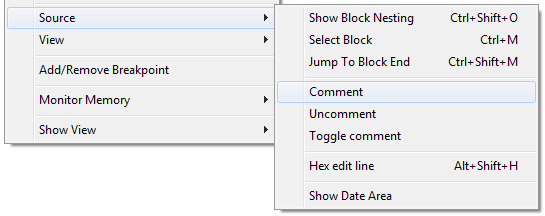
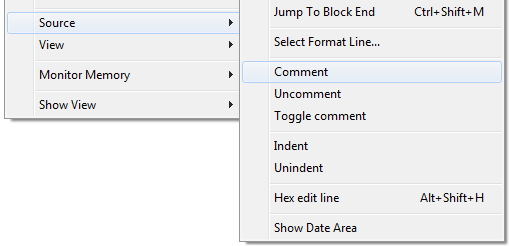
Updated help text of the Lpex Comments plug-in.

diff --git a/eclipse/iSphere Help Lpex Comments/html/comments/Indentions.html b/eclipse/iSphere Help Lpex Comments/html/comments/Indentions.html
@@ -1,0 +1,57 @@
+<!DOCTYPE HTML PUBLIC "-//W3C//DTD HTML 4.0 Transitional//EN">
+
+<html>
+<head>
+	<meta http-equiv="Content-Type" content="text/html; charset=iso-8859-1">
+	<link rel="stylesheet" type="text/css" href="../stylesheet.css">
+	<title>Indentions</title>
+</head>
+
+<body>
+<h1>Indentions</h1>
+<a href="https://sourceforge.net/projects/isphere/" target="_blank">
+<img src="assets/indentions.png" 
+     style="float:right; margin-left:60px; margin-right:20px;  margin-bottom:40px" border=0></a>
+The "Comments" plug-in provides keyboard shortcuts for the Lpex editor for commenting and 
+uncommenting source lines. It is also possible to toggle a source line from commented to 
+uncommented and vice versa. The provided keyboard shortcuts are 
+<p>
+<table>
+<tr><td nowrap>Ctrl+Tab</td><td style="padding-left: 40px;">Indent source line</td></tr>
+<tr><td nowrap>Ctrl+Shift+Tab</td><td style="padding-left: 40px;">Unindent source line</td></tr>
+</table>
+<p>
+You can also select the required function from the context menu:
+<p>
+<img src="assets/LPEX_indentions_context_menu.png" align="middle">
+<p>
+The supported source types are:
+<p>
+<ul>
+<li>RPG</li>
+<li>RPGLE</li>
+<li>SQLRPG</li>
+<li>SQLRPGLE</li>
+</ul>
+<p>
+<h2>Indenting A Source Line</h2>
+Put the cursor on the source line that you want to indent and press the keyboard shortcut or
+select the requested option from the context menu.
+<p>
+<h2>Changing Multiple Source Lines</h2>
+Select the source lines that you want to indent and press the keyboard shortcut or
+select the requested option from the context menu. For example you can select lines
+123-124 like this:
+<p>
+<img src="assets/indention_multiple_lines_selection.png" align="middle">
+<p>
+The result looks like that:
+<p>
+<img src="assets/indention_multiple_lines_indented.png" align="middle">
+<p>
+It is not required to select the complete source lines. Just start somewhere in the first line
+to change and span the selection to the last line. Then select the requested action.
+<p>
+<iframe src="../copyright.html" width="100%" frameborder="0" marginheight="0" marginwidth="0"></iframe>
+</body>
+</html>

diff --git a/eclipse/iSphere Help Lpex Comments/html/comments/preferences/preferences.html b/eclipse/iSphere Help Lpex Comments/html/comments/preferences/preferences.html
@@ -4,7 +4,7 @@
 <head>
 	<meta http-equiv="Content-Type" content="text/html; charset=iso-8859-1">
 	<link rel="stylesheet" type="text/css" href="../../stylesheet.css">
-	<title>Comments - Preferences</title>
+	<title>Comments and Indentions - Preferences</title>
 </head>
 
 <body>
@@ -15,9 +15,20 @@
 The available options are:
 <table>
 	<tr>
-		<td valign="top" nowrap>Enable</td>
+		<td valign="top" nowrap>Enable comments options</td>
 		<td valign="top">-</td>
-		<td valign="top">Enables/disables the comment/uncomment options of the Lpex editor.</td>
+		<td valign="top">Enables options for commenting and uncommenting source lines.</td>
+	</tr>
+	<tr>
+		<td valign="top" nowrap>Indenting options enabled</td>
+		<td valign="top">-</td>
+		<td valign="top">Enables options for indenting and unindenting source lines.</td>
+	</tr>
+</table>
+<p>
+<table>
+	<tr>
+		<td class="notice">Note: Changing one of these options requires restarting RDi to take effect.</td>
 	</tr>
 </table>
 <p>
